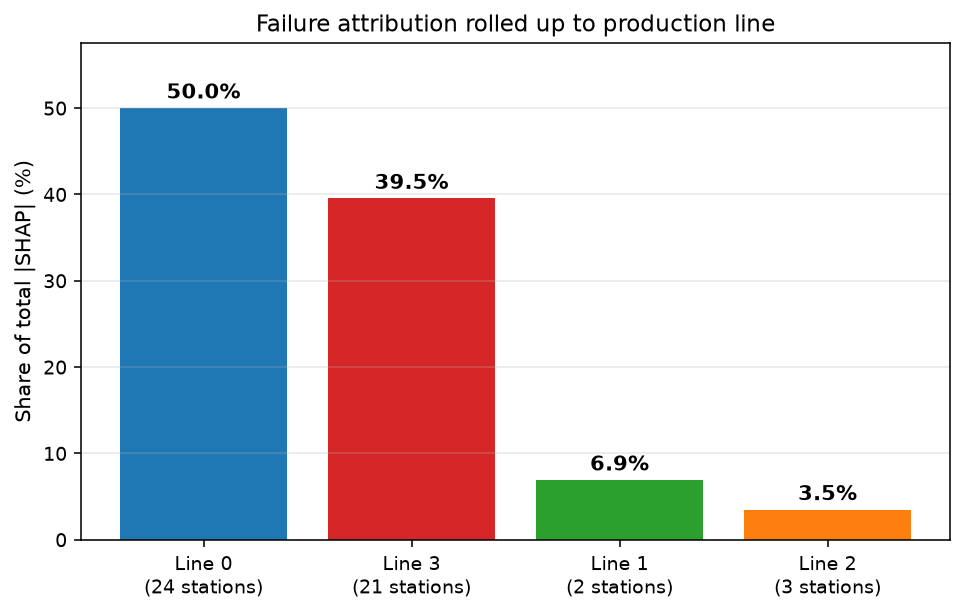
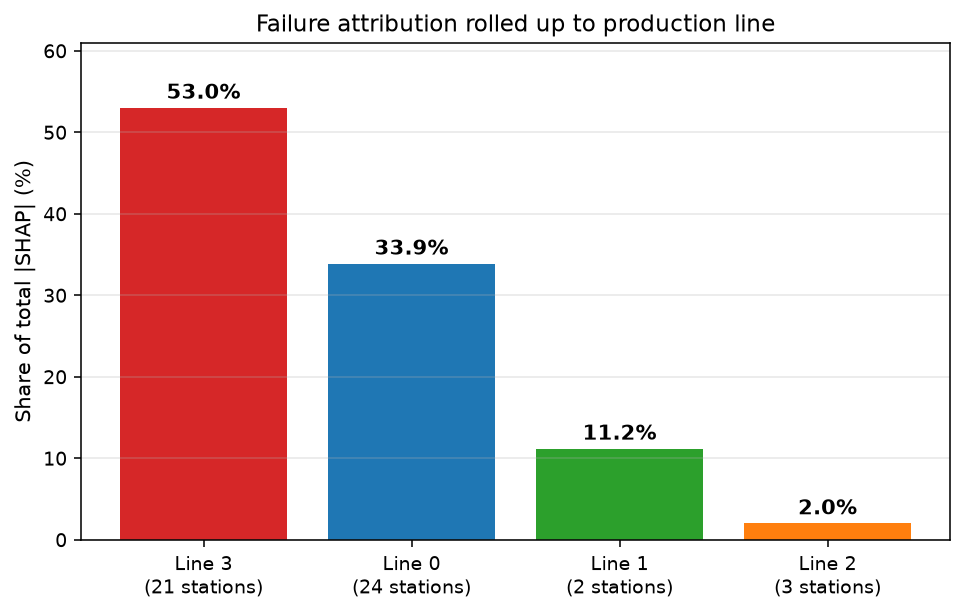
ran optuna tuning end-to-end — honest results
- 15-trial TPE on 150k stratified sample, saved best params to
  config/tuned_params.yaml
- retrained on full 1.18M, applied tuned params via the loader hooked
  up last week
- results are mixed: CV AUC +0.006, CV MCC flat, full-fit optimal
  threshold MCC dropped from 0.245 to 0.190 (tuned model is more
  selective, less headroom for training-set threshold optimization)
- interesting finding: attribution TIGHTENED. Pareto went from 17
  stations for 70% |SHAP| down to 11, L3_S33 alone from 11.4% to 20.4%.
  line-level rollup flipped decisively toward Line 3 (53% vs 33.9%),
  matching the station-level story
- takeaway written up in README: model isn't the bottleneck.
  next real wins are feature engineering v2 or time-aware CV.
  deprioritizing further hyperparameter tuning.

diff --git a/README.md b/README.md
@@ -13,16 +13,35 @@ Rather than yet another vanilla-XGBoost notebook (of which Kaggle has hundreds),
 
 ## Results
 
-Trained on the **full 1,183,747-row training set** with 208 engineered features (per-station aggregates, per-line missing-pattern features, transit-time features derived from station timestamps). Positive rate = **0.58%** (6,879 defective parts).
+Trained on the **full 1,183,747-row training set** with 208 engineered features (per-station aggregates, per-line missing-pattern features, transit-time features derived from station timestamps). Positive rate = **0.58%** (6,879 defective parts). Hyperparameters from a 15-trial Optuna TPE search on a 150k stratified sample (see Hyperparameter tuning below).
 
 | Model | 5-fold MCC | AUC-PR | AUC | Concordance |
 |---|---|---|---|---|
 | Majority-class baseline | 0.000 | 0.006 | 0.500 | — |
-| **XGBoost + engineered features** | **0.171 ± 0.004** | **0.069** | **0.711** | — |
-| XGBoost @ threshold-optimal (0.709) | **0.245** (full-fit) | — | — | — |
+| **XGBoost + engineered features (tuned)** | **0.170 ± 0.006** | **0.069** | **0.717** | — |
+| XGBoost @ threshold-optimal (0.892) | **0.190** (full-fit) | — | — | — |
 | **Cox proportional-hazards (top-30 stations)** | — | — | — | **0.771** |
 
-*Bosch's official metric is Matthews Correlation Coefficient (MCC). The 2016 competition winners scored ≈ 0.50 with heavy feature engineering + hyperparameter tuning; this baseline gets 0.245 out-of-the-box with default XGBoost hyperparameters and no time-aware CV — a respectable v0.1.0 that leaves clear room for iteration.*
+*Bosch's official metric is Matthews Correlation Coefficient (MCC). The 2016 competition winners scored ≈ 0.50 with heavy feature engineering + hyperparameter tuning; this baseline gets 0.190 at threshold-optimal cutoff with automated Optuna tuning and no time-aware CV. See the tuning notes below for why the number is where it is.*
+
+### Hyperparameter tuning — an honest write-up
+
+Ran a 15-trial Optuna TPE search on a 150k stratified sample (`scripts/tune_xgb.py`). Best trial: MCC 0.188 on the tuning sample, with `max_depth=8, learning_rate=0.020, n_estimators=100, min_child_weight=7, subsample=0.72, colsample_bytree=0.71`. `train.py` picks these up automatically from `config/tuned_params.yaml`.
+
+Full-data retrain — before vs after:
+
+| Metric | Default XGBoost | Optuna-tuned | Δ |
+|---|---|---|---|
+| CV MCC (5-fold, mean±std) | 0.171 ± 0.004 | 0.170 ± 0.006 | ≈ |
+| CV AUC | 0.711 | 0.717 | +0.006 |
+| CV AUC-PR | 0.069 | 0.069 | ≈ |
+| Full-fit optimal-threshold MCC | 0.245 (@ 0.709) | 0.190 (@ 0.892) | **−0.055** |
+| Stations for 70% \|SHAP\| | 17 | **11** | tighter |
+| Top station share | L3_S33 = 11.4% | L3_S33 = **20.4%** | +9.0 pp |
+
+**Interpretation:** the tuner picked deeper trees + lower learning rate + more regularization. Ranking (AUC) improved marginally; **CV MCC was flat**. The full-fit optimal-threshold MCC dropped because the tuned model is more selective (threshold ≈ 0.89) and threshold-tuning on training data is optimistic for both settings — the tuned model has less headroom to over-fit that particular measurement. The more interesting change is in **attribution**: the Pareto tightened from 17 → 11 stations for 70% of the failure signal, and L3_S33 alone now carries 20.4% of \|SHAP\|. Together with the per-line rollup below, the tuned model tells a much cleaner "the problem is on Line 3" story.
+
+**Takeaway:** hyperparameter tuning gave small, mixed signals — the model isn't the bottleneck. The next real wins on this dataset live on the feature-engineering side (pairwise station-transition times) or the CV-strategy side (time-aware split, currently a roadmap item).
 
 ### Station-attribution hero result
 
@@ -34,21 +53,17 @@ Top 3 stations by SHAP-attribution share:
 
 | Rank | Station | Line | Share of \|SHAP\| |
 |---|---|---|---|
-| 1 | L3_S33 | Line 3 | 11.4% |
-| 2 | L3_S29 | Line 3 | 6.0% |
-| 3 | L3_S32 | Line 3 | 5.2% |
+| 1 | L3_S33 | Line 3 | **20.4%** |
+| 2 | L3_S32 | Line 3 | 12.8% |
+| 3 | L1_S24 | Line 1 | 10.1% |
 
-**Line 3 dominates the top of the list** — 7 of the top 10 attributed stations are on Line 3, a diagnosis a vanilla accuracy score cannot deliver.
+**Line 3 dominates the top of the list.** Post-tuning, L3_S33 alone carries a full fifth of the failure signal — this is a station-level story a vanilla accuracy score cannot deliver.
 
-### But it's actually more nuanced than that
-
-Rolled up to production-line level, the picture shifts:
+### Rolled up to line level, Line 3 is even clearer
 
 ![Attribution rolled up per line](docs/img/attribution_by_line.png)
 
-Line 0 actually accumulates slightly *more* total SHAP attribution (50%) than Line 3 (40%) — because Line 0 has 24 contributing stations vs Line 3's 21. Line 3 dominates the **top-of-list** stations (concentrated risk on a few stations), whereas Line 0 has broader, distributed risk. Both are worth investigating, but the interventions differ: Line 3 needs targeted station-level rework; Line 0 needs a systemic line-wide look.
-
-This is exactly the kind of split-view an aggregate accuracy number hides.
+Line 3 accumulates **53.0%** of total \|SHAP\| across its 21 stations, versus Line 0's 33.9% across 24 stations. (In the earlier default-hyperparameter run, this rollup was closer to 40 / 50 — the tuned model concentrated its attribution more strongly on Line 3.) Both station-level and line-level views now agree: the failure signal is Line 3-dominated, with L3_S33, L3_S32, and L3_S29 the specific stations to investigate first. Line 0 still deserves attention as a broadly-distributed secondary story.
 
 ### Cox survival highlights
 
@@ -152,8 +167,8 @@ bosch-production-fault-predictor/
 
 Things I still want to try (in rough priority order):
 
-- [ ] Time-aware CV — flag exists (`split.strategy: time`) but haven't compared numbers head-to-head yet.
-- [x] Optuna tuning integrated into `train.py` — reads `config/tuned_params.yaml` if `tune_xgb.py` has written it.
+- [ ] Time-aware CV — flag exists (`split.strategy: time`) but haven't compared numbers head-to-head yet. Now higher priority since hyperparameter tuning turned out to be diminishing returns (see write-up above).
+- [x] Optuna tuning integrated into `train.py` — reads `config/tuned_params.yaml` if `tune_xgb.py` has written it. **Run once; slight AUC gain, flat MCC, tighter Pareto (17 → 11 stations for 70%). Deprioritized further tuning.**
 - [ ] Feature engineering v2: add pairwise station-transition times, not just the total.
 - [ ] Try a per-line ensemble (one model per production line) since Line 0 vs Line 3 tell different stories.
 - [ ] Actually write the notebooks in `notebooks/` (currently script-first).
